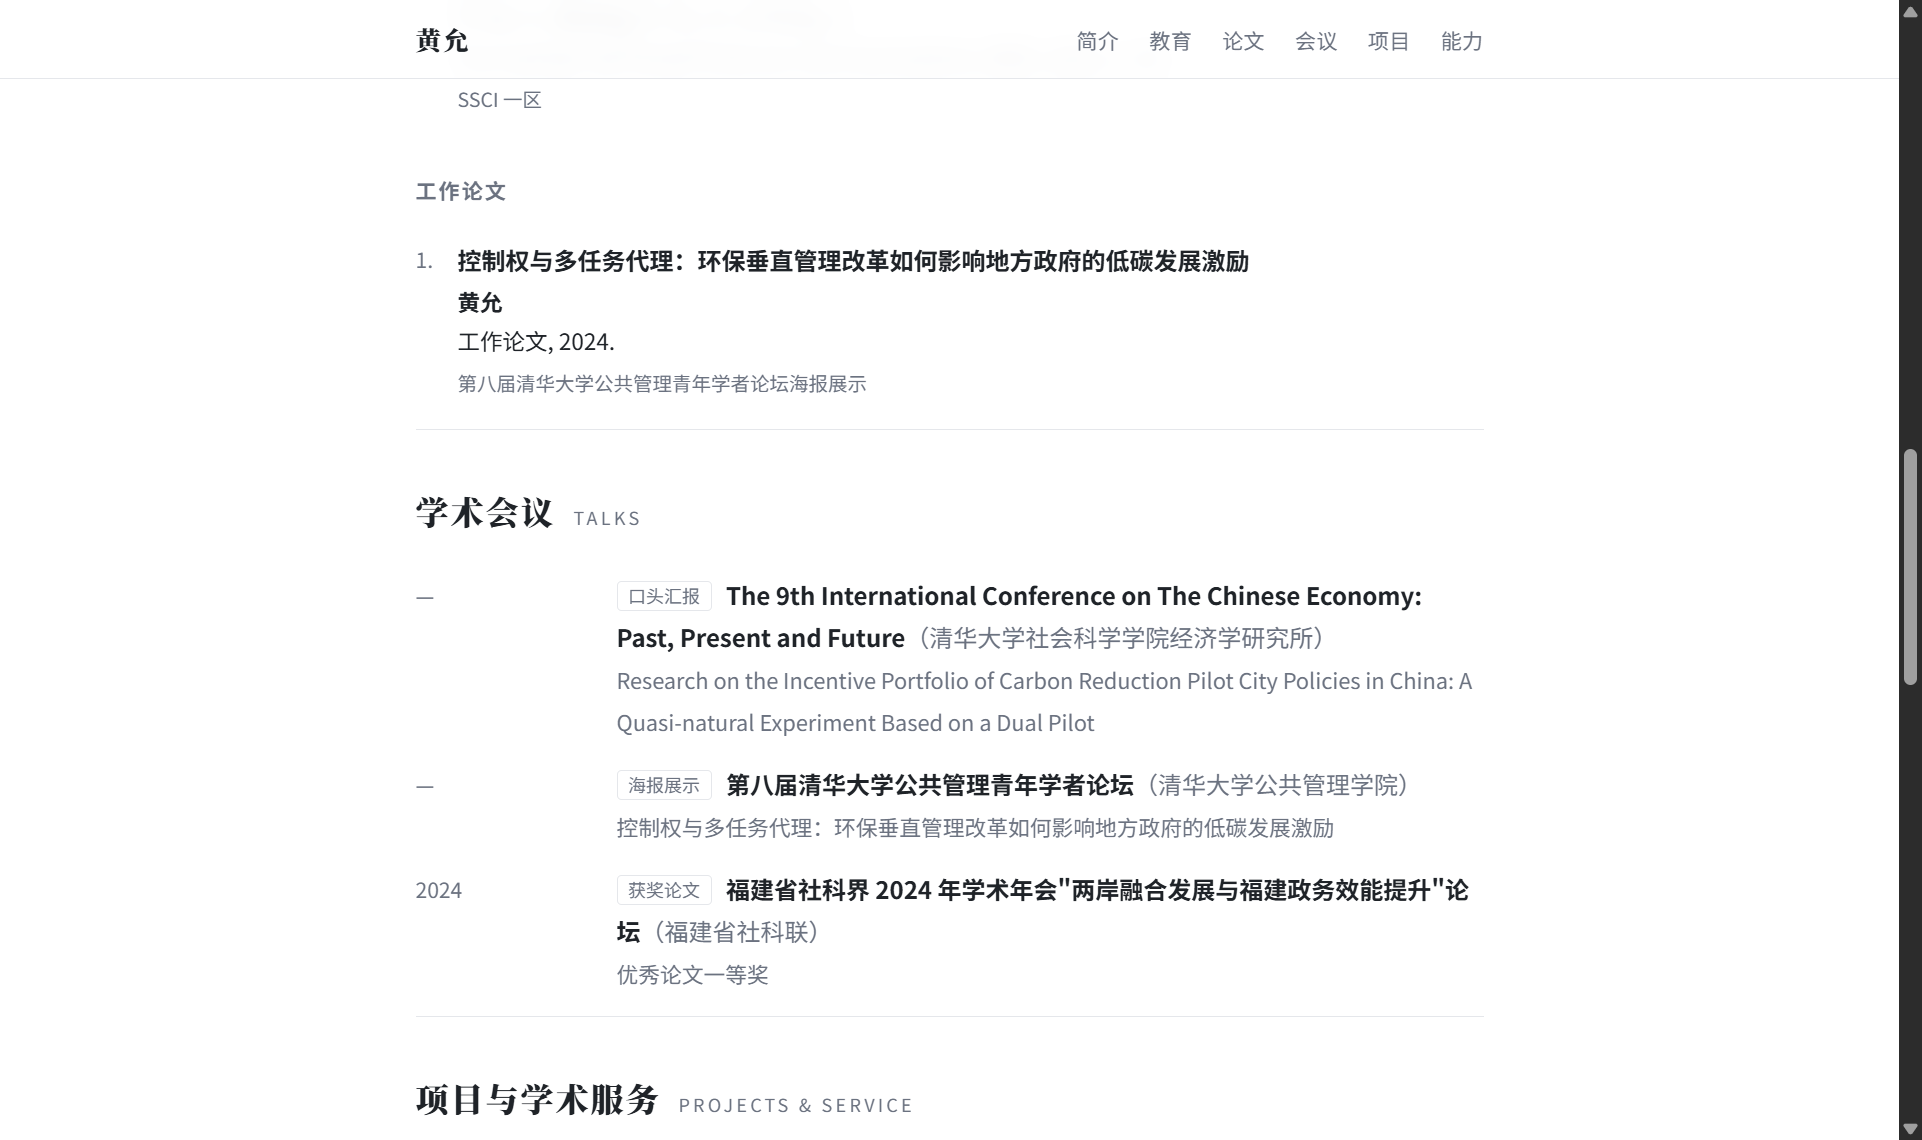
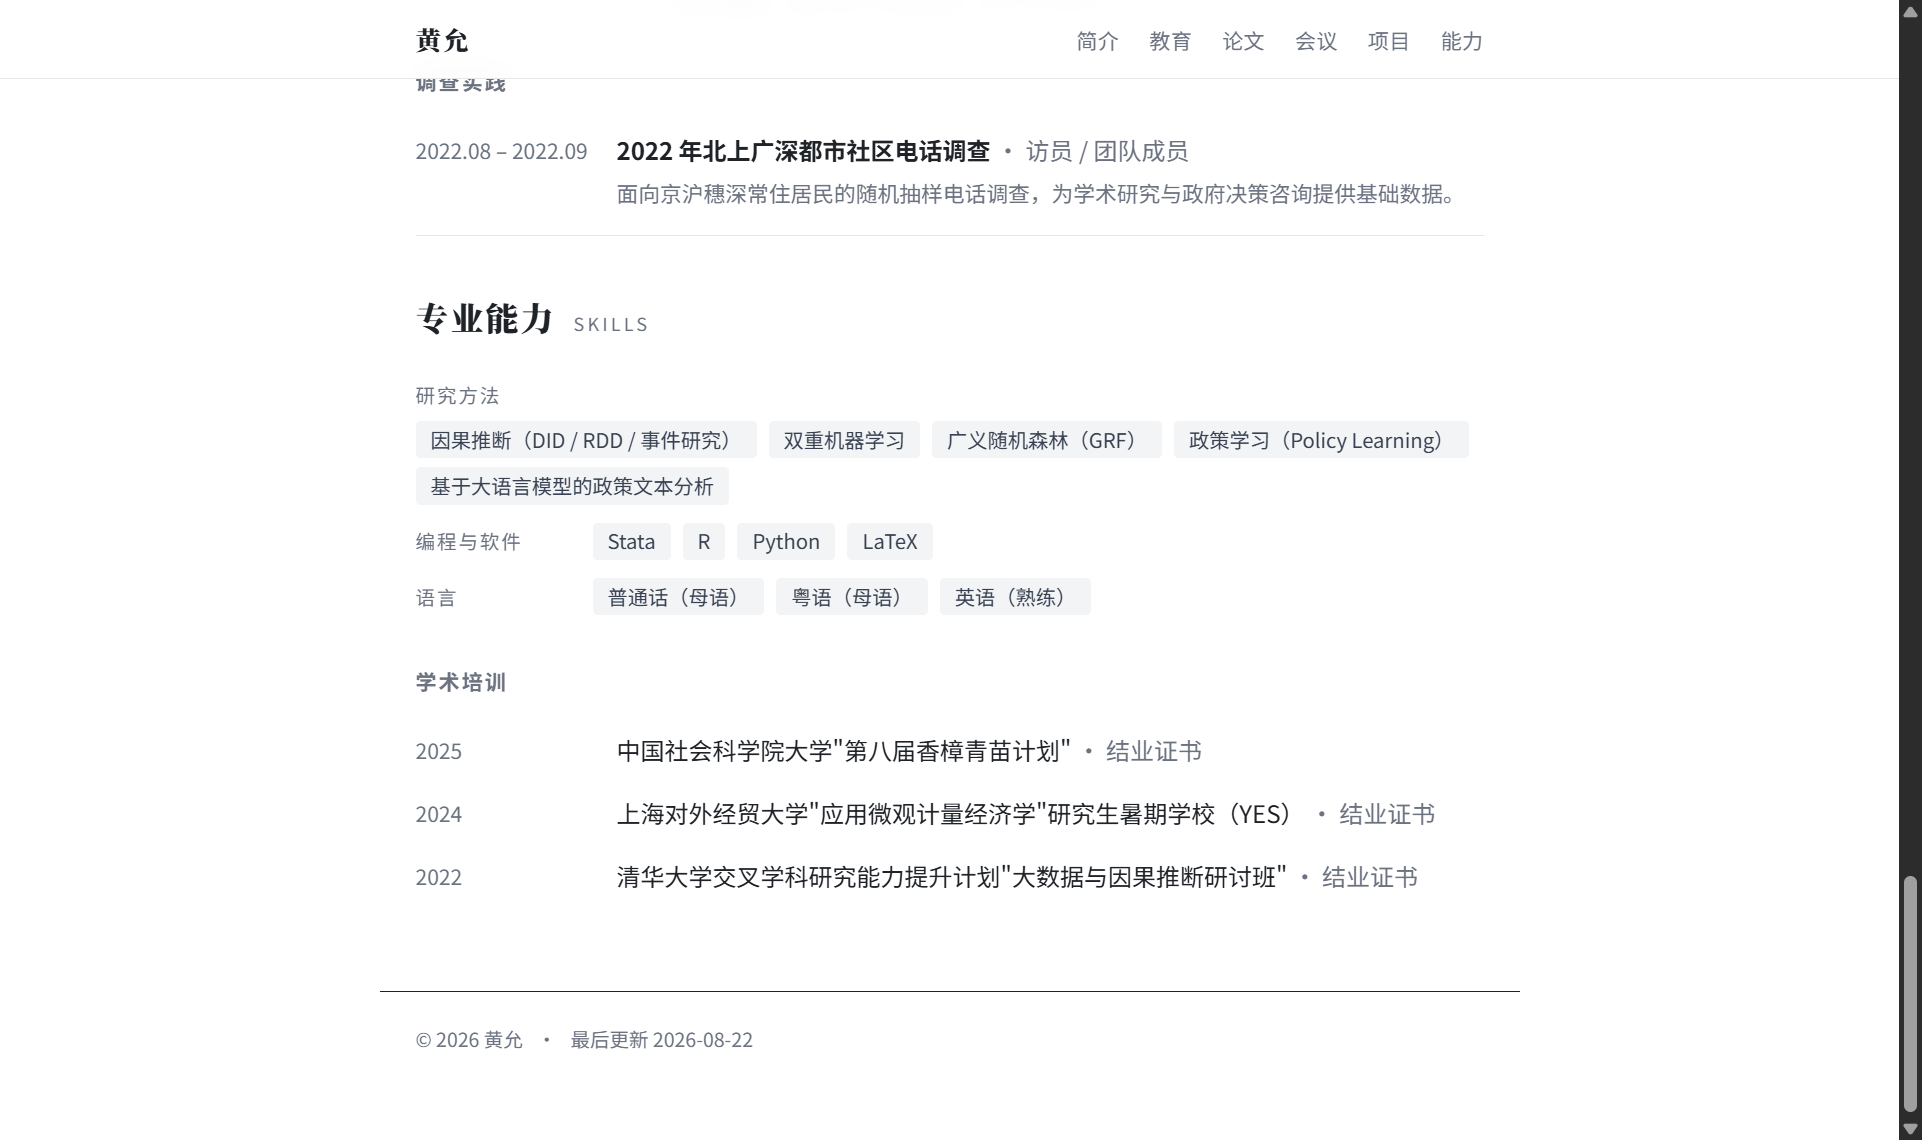
docs: 重建页面（培训、会议年份、导师、去 QQ 邮箱）并更新截图与 CHANGELOG

diff --git a/docs/index.html b/docs/index.html
@@ -32,7 +32,7 @@
       <p class="role-en">Ph.D. Student, School of Government, Nanjing University</p>
       <p class="contact">
         <a href="mailto:yunhuang@smail.nju.edu.cn">yunhuang@smail.nju.edu.cn</a>
-<span class="sep">·</span><a href="mailto:1906870153@qq.com">1906870153@qq.com</a>      </p>
+      </p>
     </div>
     <figure class="hero-photo is-placeholder">
       <img src="assets/img/photo-placeholder.svg" alt="黄允的照片" width="160" height="200">
@@ -42,7 +42,7 @@
   <!-- ===== 2. 简介 + 研究兴趣 ===== -->
   <section id="about" class="section">
     <h2><span class="zh">简介</span><span class="en">About</span></h2>
-    <p class="bio">黄允，南京大学政府管理学院应急管理专业博士研究生（2025 年入学），硕士毕业于华侨大学行政管理专业（2024），本科毕业于华侨大学金融专业（2021）。研究兴趣集中在政策扩散、产业政策、人工智能与公共治理、应急管理、自然灾害与气候变化，主要采用因果推断（DID、RDD 等）、基于大语言模型的政策文本分析以及机器学习方法（广义随机森林、双重机器学习）开展公共政策评估研究。论文发表于 International Review of Economics &amp; Finance、Humanities and Social Sciences Communications 等期刊。</p>
+    <p class="bio">黄允，南京大学政府管理学院应急管理专业博士研究生（2025 年入学），师从张海波教授；硕士毕业于华侨大学行政管理专业（2024），本科毕业于华侨大学金融专业（2021）。研究兴趣集中在政策扩散、产业政策、人工智能与公共治理、应急管理、自然灾害与气候变化，主要采用因果推断（DID、RDD 等）、基于大语言模型的政策文本分析以及机器学习方法（广义随机森林、双重机器学习）开展公共政策评估研究。论文发表于 International Review of Economics &amp; Finance、Humanities and Social Sciences Communications 等期刊。</p>
     <div class="interests">
       <span class="label">研究兴趣</span>
       <ul class="tags">
@@ -58,7 +58,7 @@
         <span class="when">2025 – 至今</span>
         <span class="what">
           <strong>南京大学 政府管理学院</strong>，应急管理博士研究生
-        </span>
+<br><span class="note">导师：张海波 教授</span>        </span>
       </li>
       <li>
         <span class="when">2021 – 2024</span>
@@ -103,7 +103,7 @@
       <li>
         <span class="pub-title">控制权与多任务代理：环保垂直管理改革如何影响地方政府的低碳发展激励</span>
         <span class="pub-authors"><strong>黄允</strong></span>
-        <span class="pub-venue">工作论文, 2024.</span>
+        <span class="pub-venue">工作论文, 2025.</span>
 <span class="pub-extra">第八届清华大学公共管理青年学者论坛海报展示</span>        
       </li>
     </ol>
@@ -115,14 +115,14 @@
     <h2><span class="zh">学术会议</span><span class="en">Talks</span></h2>
     <ul class="timeline">
       <li>
-        <span class="when">—</span>
-        <span class="what">
-<span class="badge">口头汇报</span>          <strong>The 9th International Conference on The Chinese Economy: Past, Present and Future</strong><span class="muted">（清华大学社会科学学院经济学研究所）</span><br><span class="note">Research on the Incentive Portfolio of Carbon Reduction Pilot City Policies in China: A Quasi-natural Experiment Based on a Dual Pilot</span>        </span>
-      </li>
-      <li>
-        <span class="when">—</span>
+        <span class="when">2025</span>
         <span class="what">
 <span class="badge">海报展示</span>          <strong>第八届清华大学公共管理青年学者论坛</strong><span class="muted">（清华大学公共管理学院）</span><br><span class="note">控制权与多任务代理：环保垂直管理改革如何影响地方政府的低碳发展激励</span>        </span>
+      </li>
+      <li>
+        <span class="when">2024</span>
+        <span class="what">
+<span class="badge">口头汇报</span>          <strong>The 9th International Conference on The Chinese Economy: Past, Present and Future</strong><span class="muted">（清华大学社会科学学院经济学研究所）</span><br><span class="note">Research on the Incentive Portfolio of Carbon Reduction Pilot City Policies in China: A Quasi-natural Experiment Based on a Dual Pilot</span>        </span>
       </li>
       <li>
         <span class="when">2024</span>

diff --git a/CHANGELOG.md b/CHANGELOG.md
@@ -7,6 +7,8 @@
 
 ### 2026-08-22 · M2 内容补充
 - `skills.yml` 学术培训新增：2025 年中国社会科学院大学"第八届香樟青苗计划"（结业证书）；重建 `docs/`，截图 `research/screenshots/m2-skills-training.png`。
+- `talks.yml` 补齐年份：ICCE 第九届 = 2024、第八届清华公共管理青年学者论坛 = 2025，并按年份倒序；`publications.yml` 工作论文年份同步改为 2025；截图 `research/screenshots/m2-talks.png`。
+- 隐私与导师：`profile.yml` 去掉 QQ 邮箱（`email_alt` 留空），简介加"师从张海波教授"；`education.yml` 博士条目备注"导师：张海波 教授"；截图 `research/screenshots/m2-header-education.png`。
 
 ### 2026-08-22 · M1 可预览原型
 - **构建脚本** `build.py`：PyYAML 读取 `content/*.yml`，Jinja2 渲染 `templates/index.html.j2` 到 `docs/index.html`；复制 `assets/`；页脚自动写入北京时间构建日期；YAML 出错时提示文件名 + 行号；照片 / CV 文件缺失时自动降级（占位图 / 隐藏链接）。
